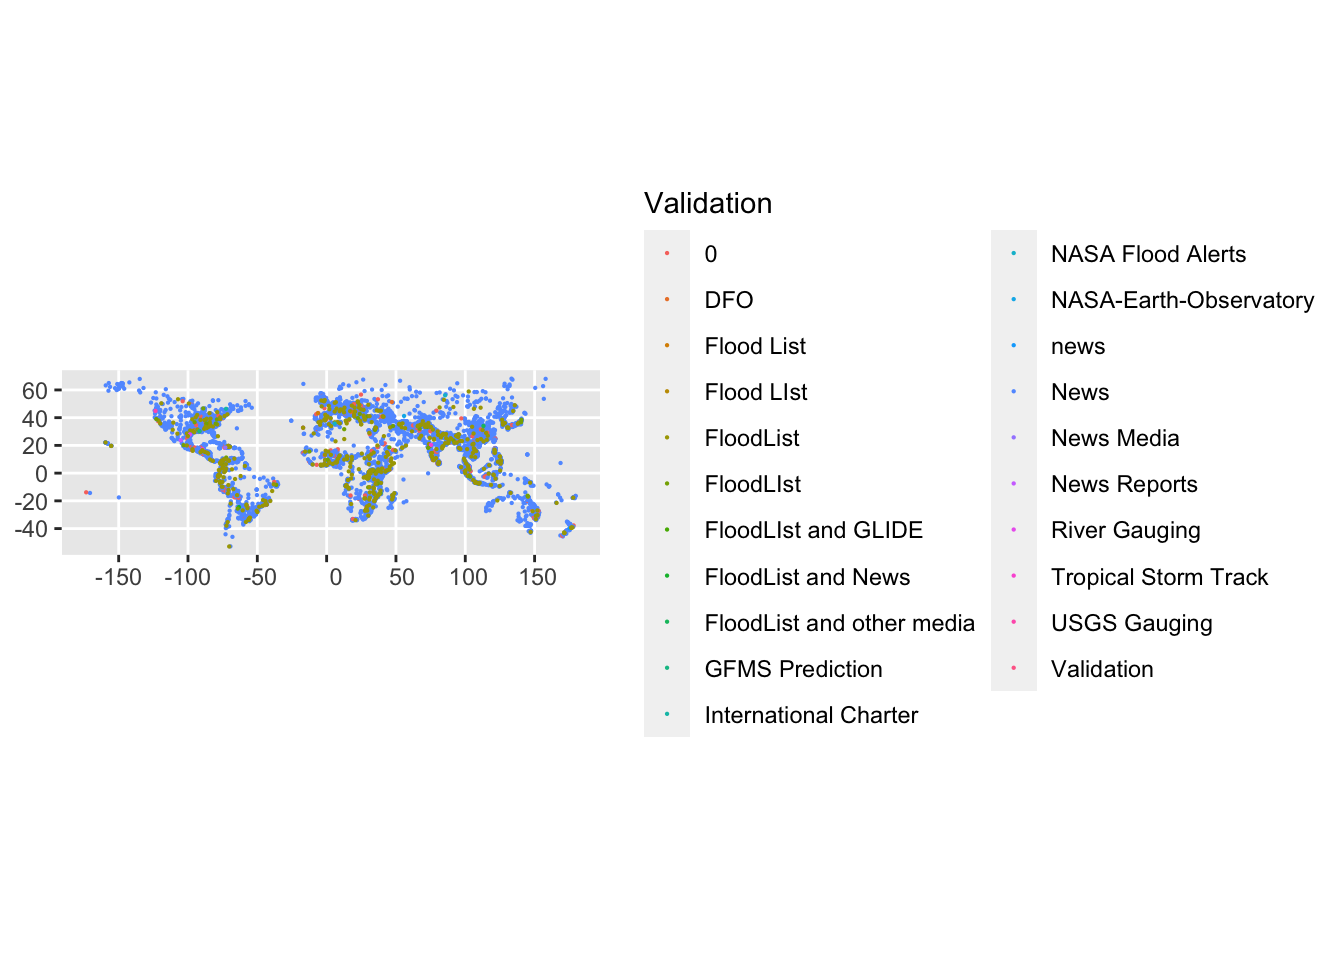
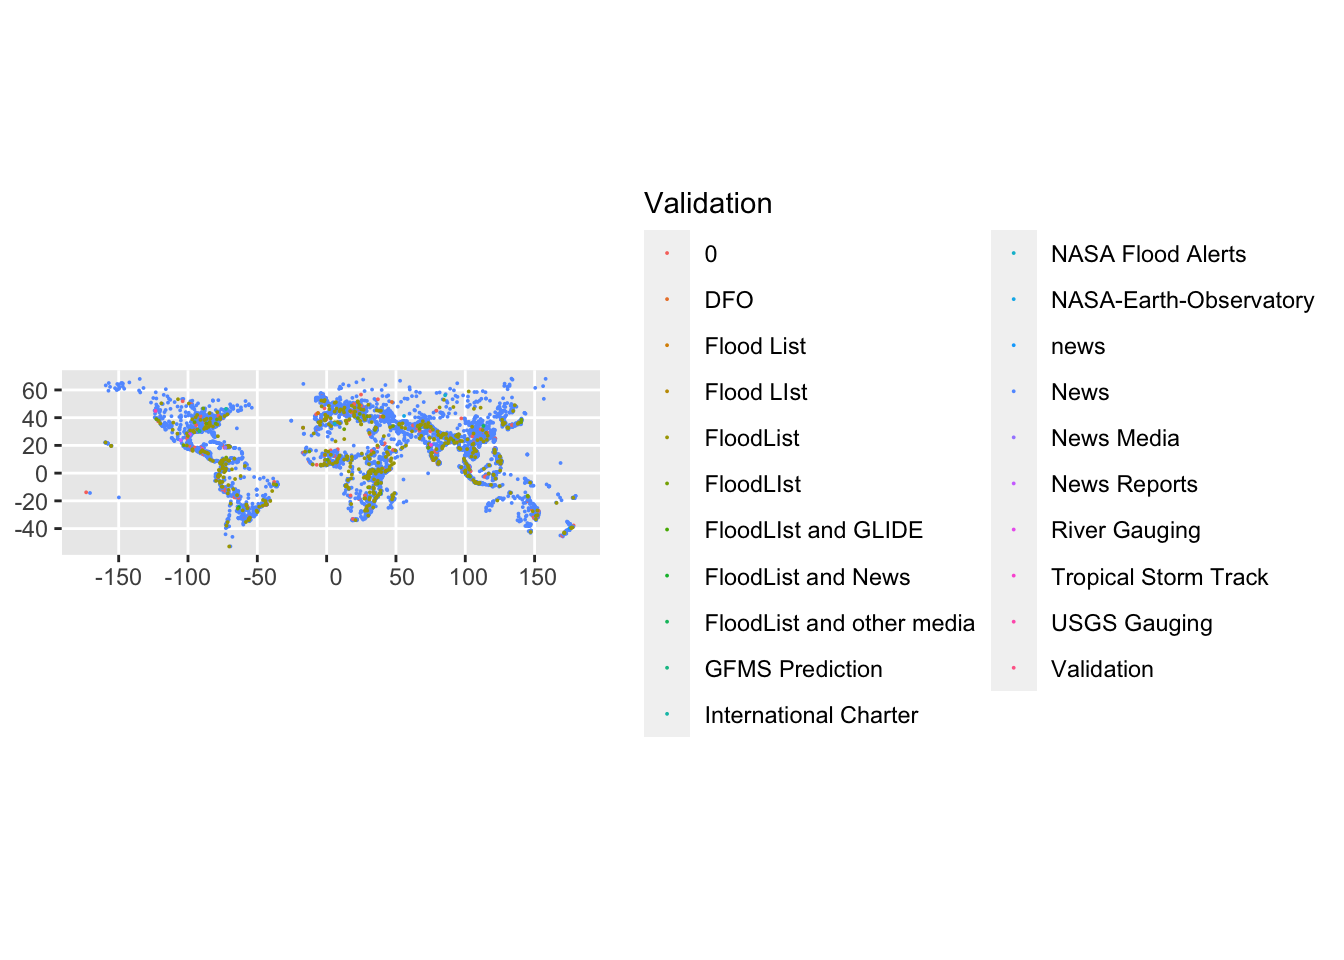
new render with transforms

Changed region(s): [[0.2188, 0.4062, 0.4062, 0.5625], [0.0938, 0.4062, 0.2188, 0.5625]]

diff --git a/code_for_building_cube/Pull_flood_data.html b/code_for_building_cube/Pull_flood_data.html
@@ -200,49 +200,96 @@ Attaching package: 'dplyr'</code></pre>
 <span id="cb12-2"><a href="#cb12-2" aria-hidden="true" tabindex="-1"></a> <span class="fu">vect</span>() <span class="sc">|&gt;</span></span>
 <span id="cb12-3"><a href="#cb12-3" aria-hidden="true" tabindex="-1"></a>  <span class="fu">as.data.frame</span>() <span class="sc">|&gt;</span></span>
 <span id="cb12-4"><a href="#cb12-4" aria-hidden="true" tabindex="-1"></a>  <span class="fu">st_as_sf</span>(<span class="at">coords =</span> <span class="fu">c</span>(<span class="st">"long"</span>,<span class="st">"lat"</span>)) <span class="sc">|&gt;</span>  </span>
-<span id="cb12-5"><a href="#cb12-5" aria-hidden="true" tabindex="-1"></a>  <span class="fu">mutate</span>(<span class="at">Began =</span> <span class="fu">as.POSIXct</span>(<span class="fu">strptime</span>(Began, <span class="at">format=</span><span class="st">"%Y/%m/%d"</span>)) )</span>
-<span id="cb12-6"><a href="#cb12-6" aria-hidden="true" tabindex="-1"></a> <span class="co">#class(x$Began)</span></span></code><button title="Copy to Clipboard" class="code-copy-button"><i class="bi"></i></button></pre></div>
+<span id="cb12-5"><a href="#cb12-5" aria-hidden="true" tabindex="-1"></a>  <span class="fu">mutate</span>(<span class="at">Began =</span> <span class="fu">as.POSIXct</span>(<span class="fu">strptime</span>(Began, <span class="at">format=</span><span class="st">"%Y/%m/%d"</span>))) <span class="sc">|&gt;</span>  </span>
+<span id="cb12-6"><a href="#cb12-6" aria-hidden="true" tabindex="-1"></a>  <span class="fu">mutate</span>(<span class="at">Ended =</span> <span class="fu">as.POSIXct</span>(<span class="fu">strptime</span>(Ended, <span class="at">format=</span><span class="st">"%Y/%m/%d"</span>))) <span class="sc">|&gt;</span>  </span>
+<span id="cb12-7"><a href="#cb12-7" aria-hidden="true" tabindex="-1"></a>  <span class="fu">mutate</span>(<span class="at">Validation =</span> <span class="fu">as.factor</span>(Validation))<span class="sc">|&gt;</span>  </span>
+<span id="cb12-8"><a href="#cb12-8" aria-hidden="true" tabindex="-1"></a>  <span class="fu">mutate</span>(<span class="at">MainCause =</span> <span class="fu">as.factor</span>(MainCause))<span class="sc">|&gt;</span>  </span>
+<span id="cb12-9"><a href="#cb12-9" aria-hidden="true" tabindex="-1"></a>  <span class="fu">mutate</span>(<span class="at">log_dead =</span> <span class="fu">log10</span>(Dead))<span class="sc">|&gt;</span>  </span>
+<span id="cb12-10"><a href="#cb12-10" aria-hidden="true" tabindex="-1"></a>  <span class="fu">mutate</span>(<span class="at">log_displaced =</span> <span class="fu">log10</span>(Displaced))</span>
+<span id="cb12-11"><a href="#cb12-11" aria-hidden="true" tabindex="-1"></a></span>
+<span id="cb12-12"><a href="#cb12-12" aria-hidden="true" tabindex="-1"></a>flood_point_data</span></code><button title="Copy to Clipboard" class="code-copy-button"><i class="bi"></i></button></pre></div>
+<div class="cell-output cell-output-stdout">
+<pre><code>Simple feature collection with 5130 features and 14 fields
+Geometry type: POINT
+Dimension:     XY
+Bounding box:  xmin: -173.454 ymin: -52.9076 xmax: 179.651 ymax: 68.1591
+CRS:           NA
+First 10 features:
+   ID GlideNumber         Country OtherCountry      Area      Began      Ended
+1   1           0         Algeria            0  92615.67 1985-01-01 1985-01-05
+2   2           0          Brazil            0 678498.82 1985-01-15 1985-02-02
+3   3           0     Phillipines            0  12846.03 1985-01-20 1985-01-21
+4   4           0       Indonesia            0  16542.12 1985-02-04 1985-02-18
+5   5           0      Mozambique            0  20082.21 1985-02-09 1985-02-11
+6   6           0 Comoros islands            0   1035.61 1985-02-16 1985-02-28
+7   7           0     New Zealand            0   7871.37 1985-02-17 1985-02-18
+8   8           0       Indonesia            0  77091.11 1985-02-19 1985-02-23
+9   9           0             USA            0 210527.96 1985-02-22 1985-03-01
+10 10           0         Bolivia            0  69706.89 1985-02-25 1985-02-28
+   Validation Dead Displaced         MainCause Severity
+1        News   26      3000        Heavy rain        1
+2        News  229     80000        Heavy rain        2
+3        News   43       444   Torrential rain        1
+4        News   21       300   Torrential rain        1
+5        News   19         0        Heavy rain        2
+6        News    2     35000  Tropical cyclone        1
+7        News    4       200        Heavy rain        1
+8        News   10      2000        Heavy rain        1
+9        News    7      2250 Rain and snowmelt        2
+10       News    2      1000        Heavy Rain        1
+                    geometry log_dead log_displaced
+1    POINT (5.23026 35.8142) 1.414973      3.477121
+2  POINT (-45.3489 -18.7111) 2.359835      4.903090
+3    POINT (122.974 10.0207) 1.633468      2.647383
+4    POINT (124.606 1.01489) 1.322219      2.477121
+5   POINT (32.3491 -25.8693) 1.278754          -Inf
+6     POINT (43.36 -11.6516) 0.301030      4.544068
+7   POINT (175.734 -37.2305) 0.602060      2.301030
+8    POINT (108.14 -7.04008) 1.000000      3.301030
+9   POINT (-85.1742 40.6691) 0.845098      3.352183
+10 POINT (-63.2887 -21.2244) 0.301030      3.000000</code></pre>
+</div>
 </div>
 <div class="cell">
-<div class="sourceCode cell-code" id="cb13"><pre class="sourceCode r code-with-copy"><code class="sourceCode r"><span id="cb13-1"><a href="#cb13-1" aria-hidden="true" tabindex="-1"></a><span class="fu">ggplot</span>(<span class="at">data=</span>flood_point_data, <span class="fu">aes</span>(<span class="at">color=</span>Severity)) <span class="sc">+</span></span>
-<span id="cb13-2"><a href="#cb13-2" aria-hidden="true" tabindex="-1"></a>  <span class="fu">geom_sf</span>(<span class="at">cex=</span><span class="fl">0.1</span>)</span></code><button title="Copy to Clipboard" class="code-copy-button"><i class="bi"></i></button></pre></div>
+<div class="sourceCode cell-code" id="cb14"><pre class="sourceCode r code-with-copy"><code class="sourceCode r"><span id="cb14-1"><a href="#cb14-1" aria-hidden="true" tabindex="-1"></a><span class="fu">ggplot</span>(<span class="at">data=</span>flood_point_data, <span class="fu">aes</span>(<span class="at">color=</span>Severity)) <span class="sc">+</span></span>
+<span id="cb14-2"><a href="#cb14-2" aria-hidden="true" tabindex="-1"></a>  <span class="fu">geom_sf</span>(<span class="at">cex=</span><span class="fl">0.01</span>)</span></code><button title="Copy to Clipboard" class="code-copy-button"><i class="bi"></i></button></pre></div>
 <div class="cell-output-display">
 <p><img src="Pull_flood_data_files/figure-html/plot_flood_point_severity-1.png" class="img-fluid" width="672"></p>
 </div>
 </div>
 <div class="cell">
-<div class="sourceCode cell-code" id="cb14"><pre class="sourceCode r code-with-copy"><code class="sourceCode r"><span id="cb14-1"><a href="#cb14-1" aria-hidden="true" tabindex="-1"></a><span class="fu">ggplot</span>(<span class="at">data=</span>flood_point_data, <span class="fu">aes</span>(<span class="at">color=</span>MainCause))  <span class="sc">+</span><span class="fu">geom_sf</span>(<span class="at">cex=</span><span class="fl">0.1</span>)</span></code><button title="Copy to Clipboard" class="code-copy-button"><i class="bi"></i></button></pre></div>
+<div class="sourceCode cell-code" id="cb15"><pre class="sourceCode r code-with-copy"><code class="sourceCode r"><span id="cb15-1"><a href="#cb15-1" aria-hidden="true" tabindex="-1"></a><span class="fu">ggplot</span>(<span class="at">data=</span>flood_point_data, <span class="fu">aes</span>(<span class="at">color=</span>MainCause))  <span class="sc">+</span><span class="fu">geom_sf</span>(<span class="at">cex=</span><span class="fl">0.01</span>)</span></code><button title="Copy to Clipboard" class="code-copy-button"><i class="bi"></i></button></pre></div>
 <div class="cell-output-display">
 <p><img src="Pull_flood_data_files/figure-html/plot_flood_point_MainCause-1.png" class="img-fluid" width="672"></p>
 </div>
 </div>
 <div class="cell">
-<div class="sourceCode cell-code" id="cb15"><pre class="sourceCode r code-with-copy"><code class="sourceCode r"><span id="cb15-1"><a href="#cb15-1" aria-hidden="true" tabindex="-1"></a><span class="fu">ggplot</span>(<span class="at">data=</span>flood_point_data, <span class="fu">aes</span>(<span class="at">color=</span>Displaced))  <span class="sc">+</span><span class="fu">geom_sf</span>(<span class="at">cex=</span><span class="fl">0.1</span>)</span></code><button title="Copy to Clipboard" class="code-copy-button"><i class="bi"></i></button></pre></div>
+<div class="sourceCode cell-code" id="cb16"><pre class="sourceCode r code-with-copy"><code class="sourceCode r"><span id="cb16-1"><a href="#cb16-1" aria-hidden="true" tabindex="-1"></a><span class="fu">ggplot</span>(<span class="at">data=</span>flood_point_data, <span class="fu">aes</span>(<span class="at">color=</span>log_displaced))  <span class="sc">+</span><span class="fu">geom_sf</span>(<span class="at">cex=</span><span class="fl">0.01</span>)</span></code><button title="Copy to Clipboard" class="code-copy-button"><i class="bi"></i></button></pre></div>
 <div class="cell-output-display">
 <p><img src="Pull_flood_data_files/figure-html/plot_flood_point_displaced-1.png" class="img-fluid" width="672"></p>
 </div>
 </div>
 <div class="cell">
-<div class="sourceCode cell-code" id="cb16"><pre class="sourceCode r code-with-copy"><code class="sourceCode r"><span id="cb16-1"><a href="#cb16-1" aria-hidden="true" tabindex="-1"></a><span class="fu">ggplot</span>(<span class="at">data=</span>flood_point_data, <span class="fu">aes</span>(<span class="at">color=</span>Dead))  <span class="sc">+</span><span class="fu">geom_sf</span>(<span class="at">cex=</span><span class="fl">0.1</span>)</span></code><button title="Copy to Clipboard" class="code-copy-button"><i class="bi"></i></button></pre></div>
+<div class="sourceCode cell-code" id="cb17"><pre class="sourceCode r code-with-copy"><code class="sourceCode r"><span id="cb17-1"><a href="#cb17-1" aria-hidden="true" tabindex="-1"></a><span class="fu">ggplot</span>(<span class="at">data=</span>flood_point_data, <span class="fu">aes</span>(<span class="at">color=</span>log_dead))  <span class="sc">+</span><span class="fu">geom_sf</span>(<span class="at">cex=</span><span class="fl">0.01</span>)</span></code><button title="Copy to Clipboard" class="code-copy-button"><i class="bi"></i></button></pre></div>
 <div class="cell-output-display">
 <p><img src="Pull_flood_data_files/figure-html/plot_flood_point_Dead-1.png" class="img-fluid" width="672"></p>
 </div>
 </div>
 <div class="cell">
-<div class="sourceCode cell-code" id="cb17"><pre class="sourceCode r code-with-copy"><code class="sourceCode r"><span id="cb17-1"><a href="#cb17-1" aria-hidden="true" tabindex="-1"></a><span class="fu">ggplot</span>(<span class="at">data=</span>flood_point_data, <span class="fu">aes</span>(<span class="at">color=</span>Validation))  <span class="sc">+</span><span class="fu">geom_sf</span>(<span class="at">cex=</span><span class="fl">0.1</span>)</span></code><button title="Copy to Clipboard" class="code-copy-button"><i class="bi"></i></button></pre></div>
+<div class="sourceCode cell-code" id="cb18"><pre class="sourceCode r code-with-copy"><code class="sourceCode r"><span id="cb18-1"><a href="#cb18-1" aria-hidden="true" tabindex="-1"></a><span class="fu">ggplot</span>(<span class="at">data=</span>flood_point_data, <span class="fu">aes</span>(<span class="at">color=</span>Validation))  <span class="sc">+</span><span class="fu">geom_sf</span>(<span class="at">cex=</span><span class="fl">0.01</span>)</span></code><button title="Copy to Clipboard" class="code-copy-button"><i class="bi"></i></button></pre></div>
 <div class="cell-output-display">
 <p><img src="Pull_flood_data_files/figure-html/plot_flood_point_Validation-1.png" class="img-fluid" width="672"></p>
 </div>
 </div>
 <div class="cell">
-<div class="sourceCode cell-code" id="cb18"><pre class="sourceCode r code-with-copy"><code class="sourceCode r"><span id="cb18-1"><a href="#cb18-1" aria-hidden="true" tabindex="-1"></a><span class="fu">ggplot</span>(<span class="at">data=</span>flood_point_data, <span class="fu">aes</span>(<span class="at">color=</span>Began))  <span class="sc">+</span><span class="fu">geom_sf</span>(<span class="at">cex=</span><span class="fl">0.1</span>)</span></code><button title="Copy to Clipboard" class="code-copy-button"><i class="bi"></i></button></pre></div>
+<div class="sourceCode cell-code" id="cb19"><pre class="sourceCode r code-with-copy"><code class="sourceCode r"><span id="cb19-1"><a href="#cb19-1" aria-hidden="true" tabindex="-1"></a><span class="fu">ggplot</span>(<span class="at">data=</span>flood_point_data, <span class="fu">aes</span>(<span class="at">color=</span>Ended))  <span class="sc">+</span><span class="fu">geom_sf</span>(<span class="at">cex=</span><span class="fl">0.01</span>)</span></code><button title="Copy to Clipboard" class="code-copy-button"><i class="bi"></i></button></pre></div>
 <div class="cell-output-display">
 <p><img src="Pull_flood_data_files/figure-html/plot_flood_point_Ended-1.png" class="img-fluid" width="672"></p>
 </div>
 </div>
 <div class="cell">
-<div class="sourceCode cell-code" id="cb19"><pre class="sourceCode r code-with-copy"><code class="sourceCode r"><span id="cb19-1"><a href="#cb19-1" aria-hidden="true" tabindex="-1"></a><span class="fu">ggplot</span>(<span class="at">data=</span>flood_point_data, <span class="fu">aes</span>(<span class="at">color=</span>Area))  <span class="sc">+</span></span>
-<span id="cb19-2"><a href="#cb19-2" aria-hidden="true" tabindex="-1"></a>  <span class="fu">geom_sf</span>(<span class="at">cex=</span><span class="fl">0.1</span>) </span></code><button title="Copy to Clipboard" class="code-copy-button"><i class="bi"></i></button></pre></div>
+<div class="sourceCode cell-code" id="cb20"><pre class="sourceCode r code-with-copy"><code class="sourceCode r"><span id="cb20-1"><a href="#cb20-1" aria-hidden="true" tabindex="-1"></a><span class="fu">ggplot</span>(<span class="at">data=</span>flood_point_data, <span class="fu">aes</span>(<span class="at">color=</span>Area))  <span class="sc">+</span></span>
+<span id="cb20-2"><a href="#cb20-2" aria-hidden="true" tabindex="-1"></a>  <span class="fu">geom_sf</span>(<span class="at">cex=</span><span class="fl">0.01</span>) </span></code><button title="Copy to Clipboard" class="code-copy-button"><i class="bi"></i></button></pre></div>
 <div class="cell-output-display">
 <p><img src="Pull_flood_data_files/figure-html/plot_flood_point_Area-1.png" class="img-fluid" width="672"></p>
 </div>
